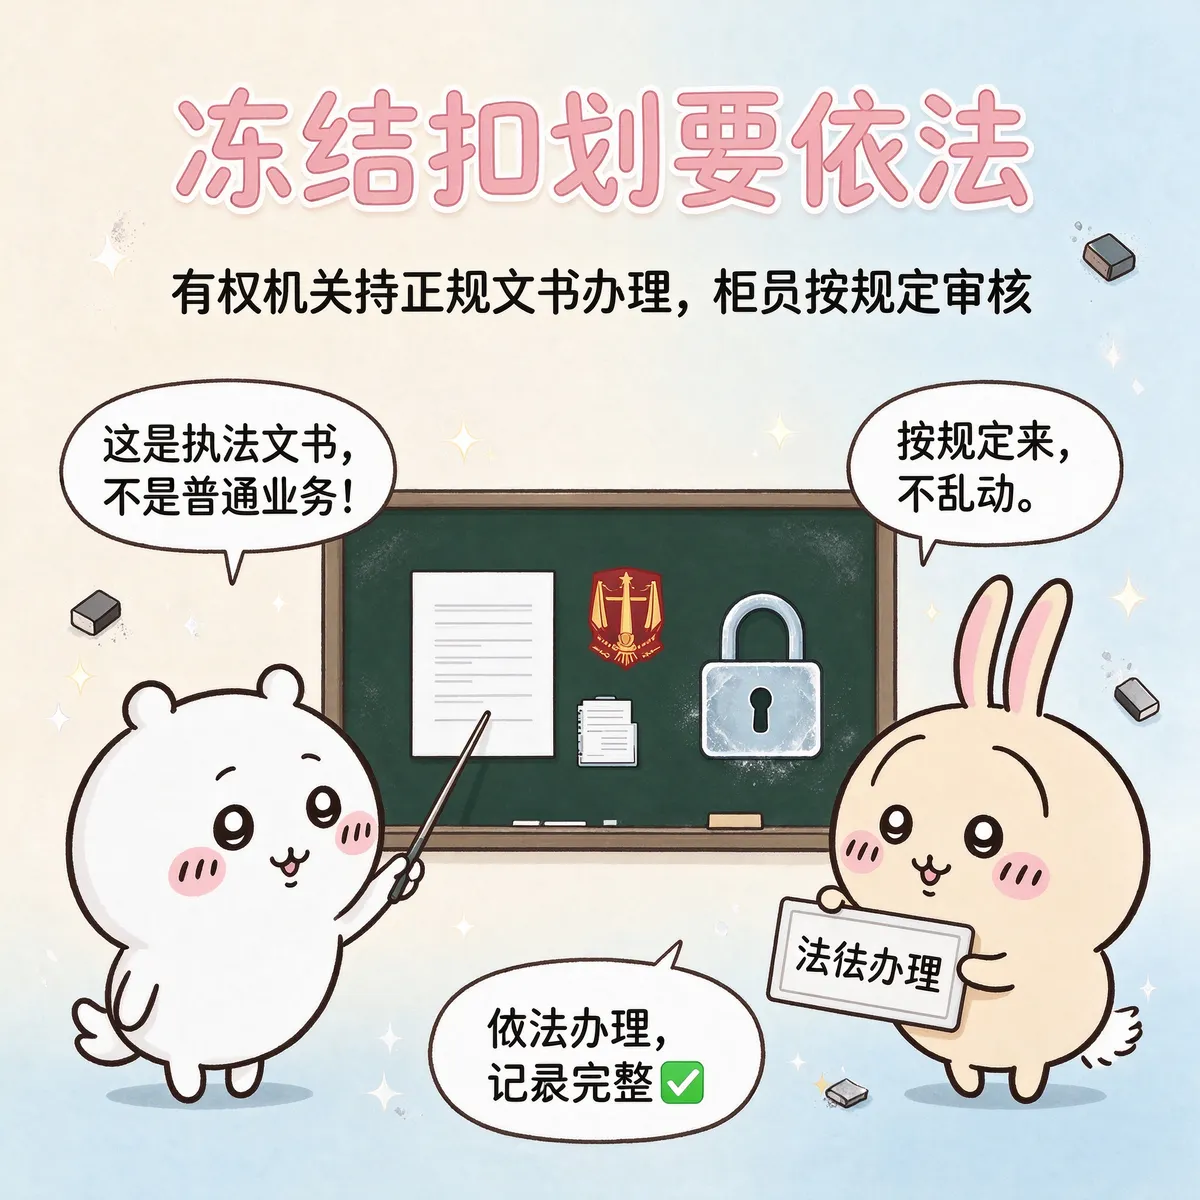
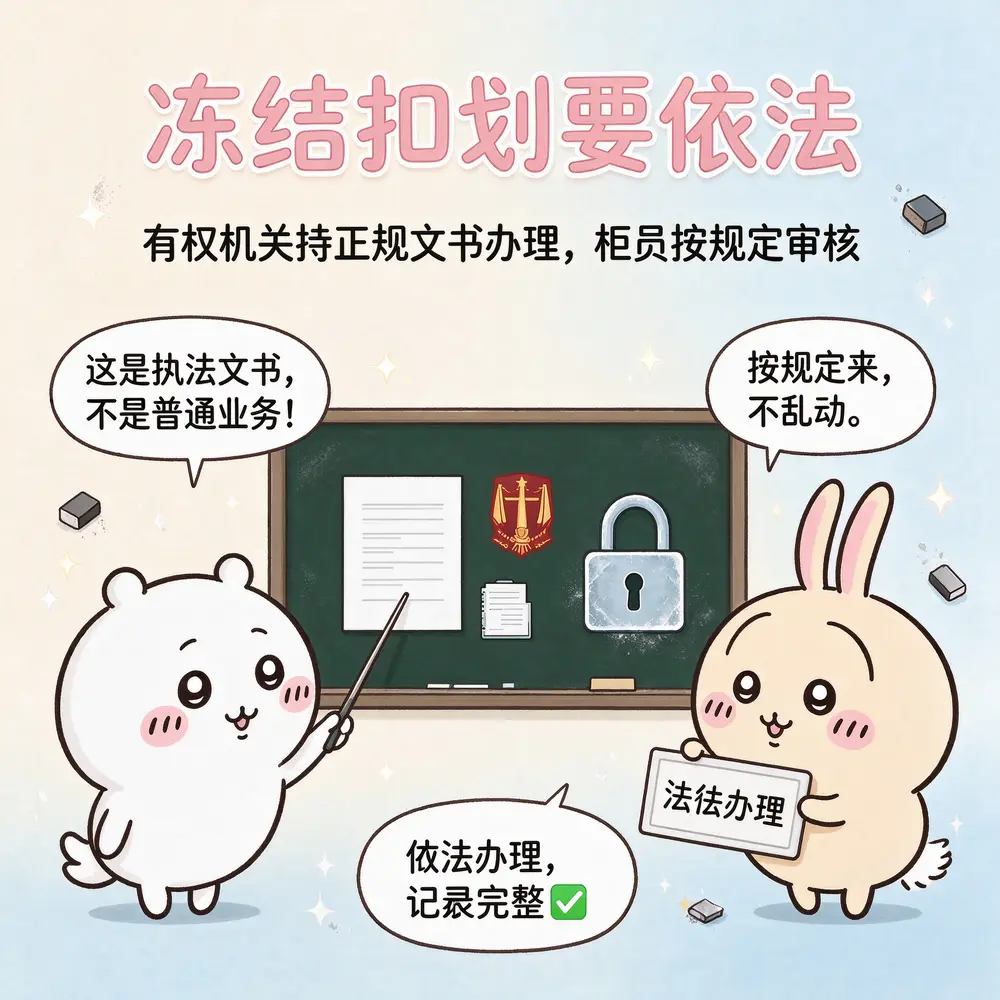
进一步压缩配图至单张 600KB 内，并限制页面配图显示宽度居中

Changed region(s): [[0.775, 0.403, 0.806, 0.434], [0.496, 0.527, 0.527, 0.558]]

diff --git a/docs/.vitepress/theme/style.css b/docs/.vitepress/theme/style.css
@@ -1,0 +1,7 @@
+/* 章节配图：限制最大宽度并居中，避免撑满整栏；方形漫画保持等比缩放 */
+.vp-doc img {
+  max-width: 680px;
+  margin: 1.5rem auto;
+  border-radius: 12px;
+  box-shadow: 0 4px 16px rgba(0, 0, 0, 0.08);
+}

diff --git a/docs/.vitepress/theme/index.js b/docs/.vitepress/theme/index.js
@@ -1,0 +1,6 @@
+import DefaultTheme from 'vitepress/theme'
+import './style.css'
+
+export default {
+  extends: DefaultTheme
+}
